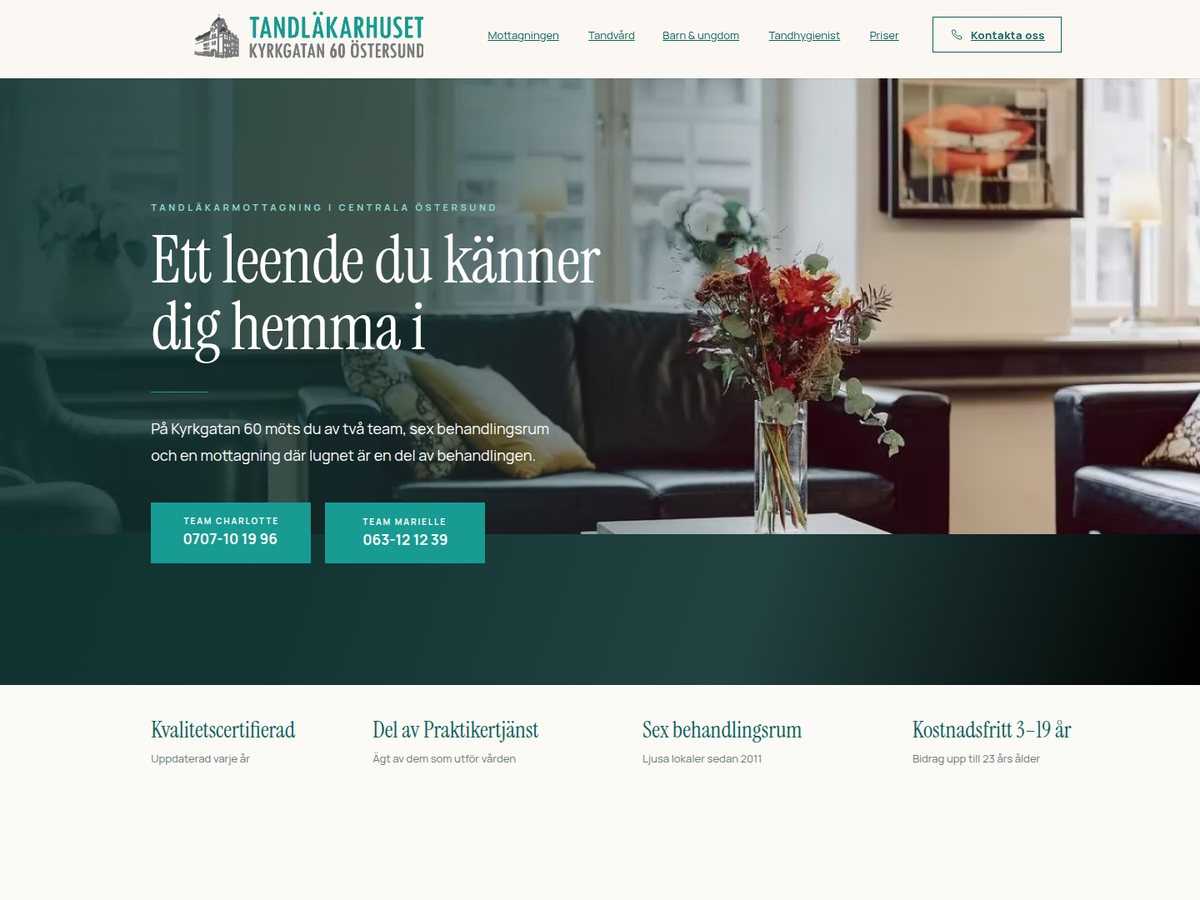
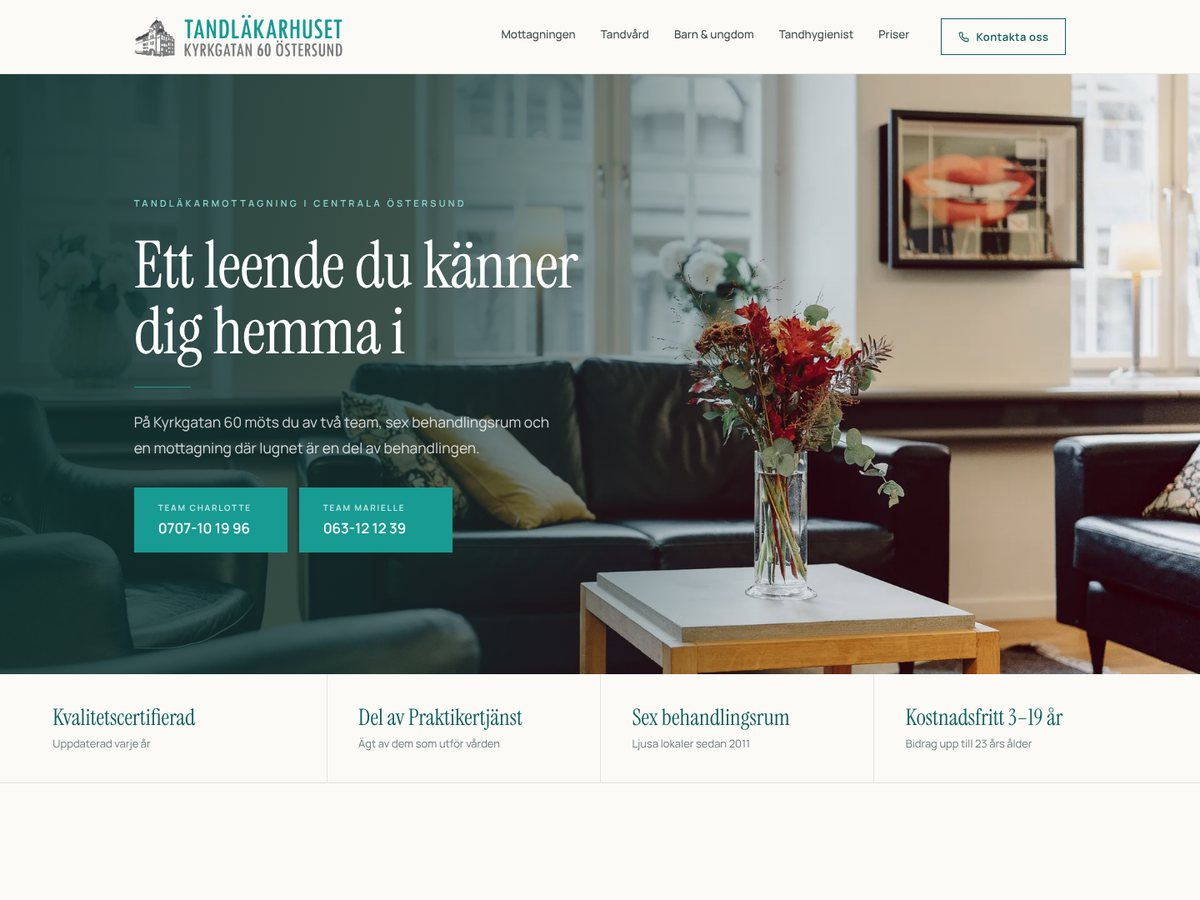
ok

diff --git a/i18n.js b/i18n.js
@@ -99,7 +99,7 @@
     c9sub: 'skönhetssalong',
     c9: 'WordPress-sajt för Salos äldsta skönhetssalong - byggd på ett eget specialdesignat tema med behandlingskatalog, prislista, kampanjer och onlinebokning dygnet runt.',
     c10sub: 'tandvård',
-    c10: 'Ny premiumsajt för en tandläkarmottagning i Östersund. Designen togs fram som en prototyp i kod, fördes via Figma in i Wix Studio och finslipades med egen CSS - sju sidor, anpassade för mobil.',
+    c10: 'Ny premiumsajt för en tandläkarmottagning i Östersund, live på tandlakarhuset.com. Handkodad i HTML, CSS och JavaScript - sju snabba sidor anpassade för mobil, med två team, behandlingar, priser och kontakt. Jag sköter även löpande uppdateringar.',
     c11sub: 'elpriser',
     c11: 'Elprissajt för den finska marknaden, byggd i WordPress med eget tema och eget plugin. Hämtar spotpriser från ENTSO-E automatiskt och visar dagens pris, timmar, historik och en kalkylator för när det lönar sig att starta maskinerna.',
     c12sub: 'egen AI-agent',
@@ -218,7 +218,7 @@
     c9sub: 'beauty salon',
     c9: 'WordPress site for the oldest beauty salon in Salo - built on a custom-designed theme with treatment catalogue, price list, campaigns and 24/7 online booking.',
     c10sub: 'dental clinic',
-    c10: 'A new premium website for a dental clinic in Östersund. The design was built as a coded prototype, brought into Wix Studio via Figma and refined with custom CSS - seven pages, adapted for mobile.',
+    c10: 'A new premium website for a dental clinic in Östersund, live at tandlakarhuset.com. Hand-coded in HTML, CSS and JavaScript - seven fast, mobile-friendly pages covering two teams, treatments, prices and contact. I also handle ongoing updates.',
     c11sub: 'electricity prices',
     c11: 'Electricity price site for the Finnish market, built in WordPress with a custom theme and plugin. It fetches spot prices from ENTSO-E automatically and shows today\'s price, hourly prices, history and a calculator for when it pays to run your appliances.',
     c12sub: 'own AI agent',

diff --git a/index.html b/index.html
@@ -406,13 +406,13 @@
         </article>
 
         <article class="case" data-tilt>
-          <a class="case__link" href="https://callesassi.wixstudio.com/my-site-1" target="_blank" rel="noopener">
+          <a class="case__link" href="https://tandlakarhuset.com/" target="_blank" rel="noopener">
             <div class="case__media"><img src="assets/tandlakarhuset-case.jpg" alt="Tandläkarhuset Östersund - tandläkarmottagning" loading="lazy" width="1200" height="900"></div>
             <div class="case__body">
-              <div class="case__top"><em class="case__no">02</em><span class="tag tag--live" data-i18n="badgeOngoing">pågående</span></div>
+              <div class="case__top"><em class="case__no">02</em><span class="tag tag--live" data-i18n="badgeLive">live</span></div>
               <h3>Tandläkarhuset <i>- <span data-i18n="c10sub">tandvård</span></i></h3>
-              <p data-i18n="c10">Ny premiumsajt för en tandläkarmottagning i Östersund. Designen togs fram som en prototyp i kod, fördes via Figma in i Wix Studio och finslipades med egen CSS - sju sidor, anpassade för mobil.</p>
-              <ul class="chips"><li>Wix Studio</li><li>Figma</li><li data-i18n="chipOwnCss">Egen CSS</li></ul>
+              <p data-i18n="c10">Ny premiumsajt för en tandläkarmottagning i Östersund, live på tandlakarhuset.com. Handkodad i HTML, CSS och JavaScript - sju snabba sidor anpassade för mobil, med två team, behandlingar, priser och kontakt. Jag sköter även löpande uppdateringar.</p>
+              <ul class="chips"><li>HTML &amp; CSS</li><li>JavaScript</li><li data-i18n="chipMaint">Underhåll</li></ul>
             </div>
           </a>
         </article>
